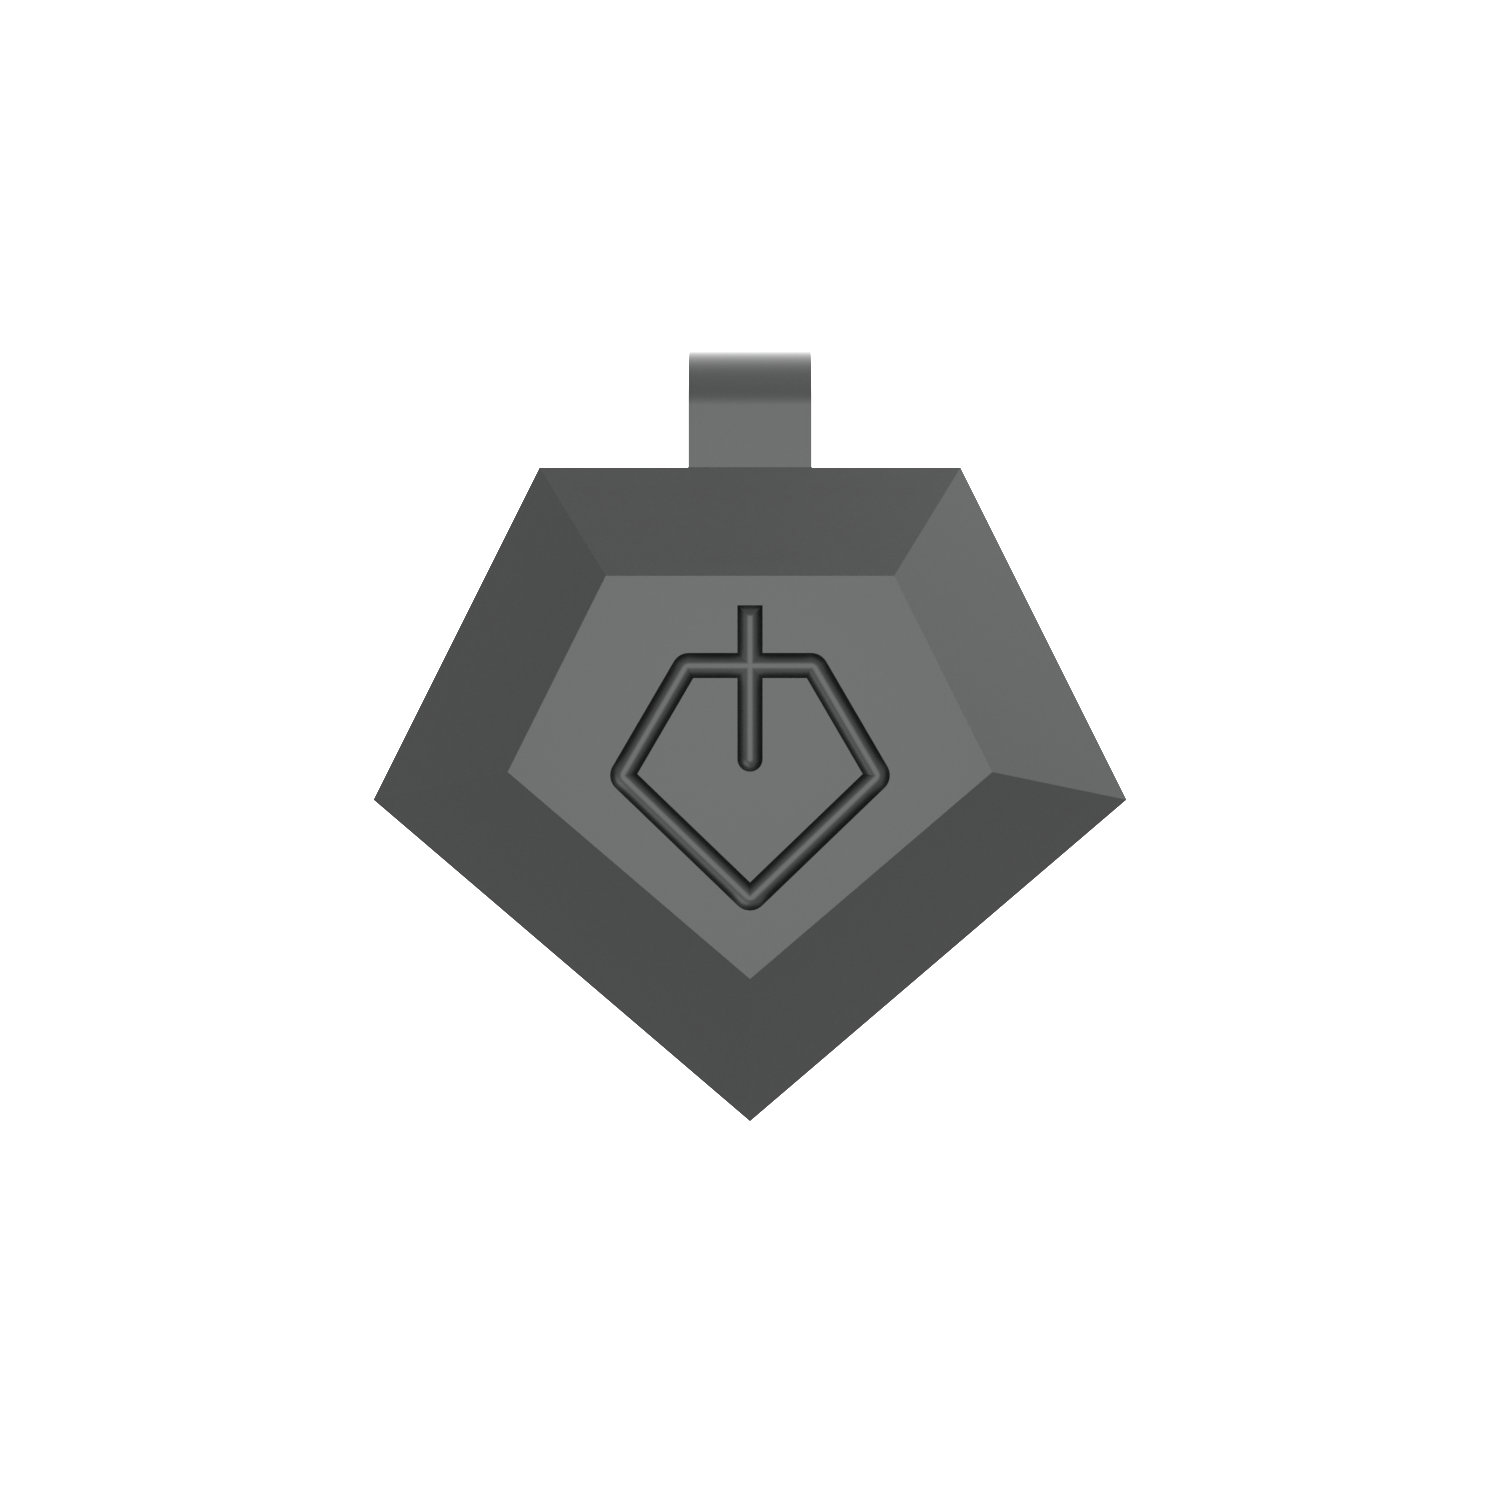
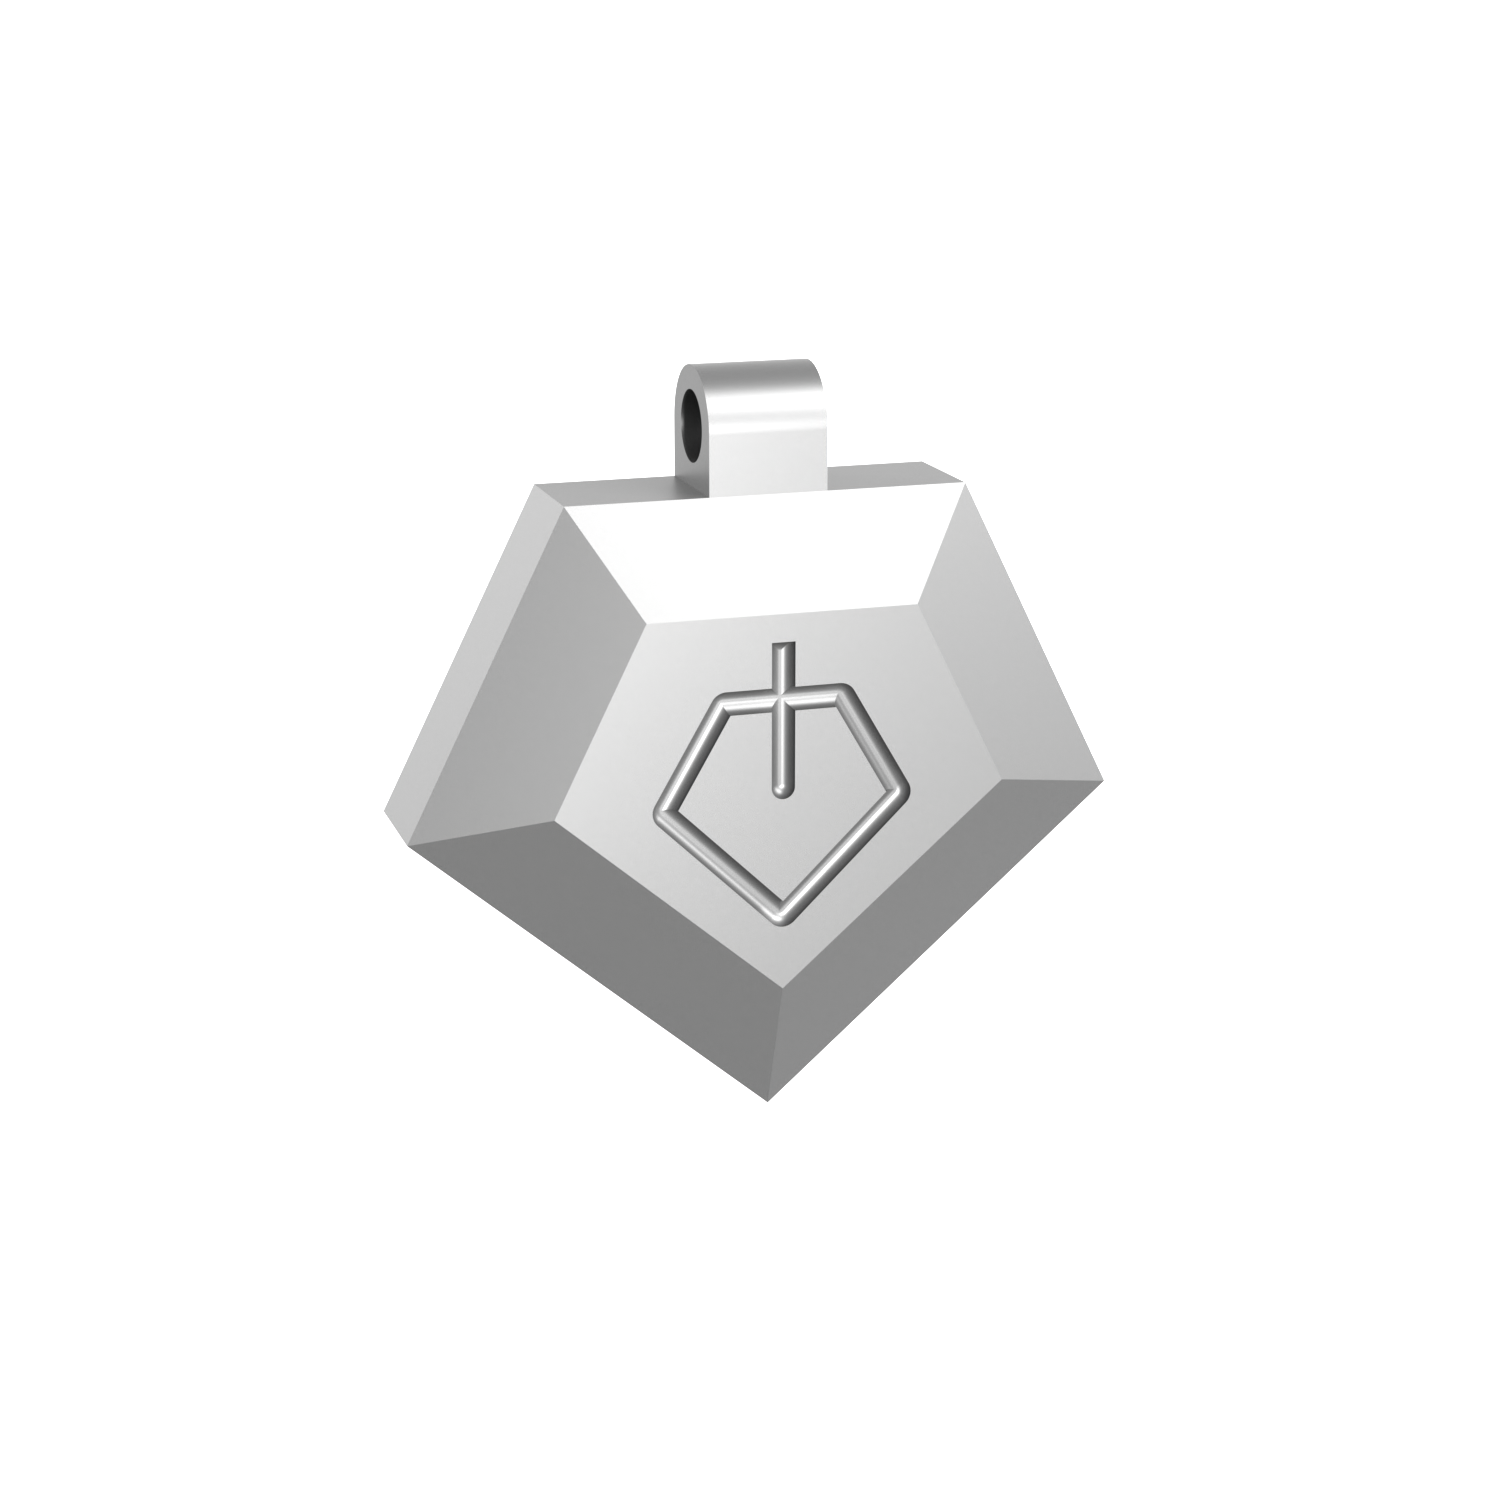
updated pendant render

Changed region(s): [[0.2453, 0.2147, 0.7667, 0.7667]]

diff --git a/app/page.tsx b/app/page.tsx
@@ -268,10 +268,10 @@ export default function Home() {
             ].map((plan, index) => (
               <Card
                 key={index}
-                className={`flex flex-col justify-between bg-white border-gray-200 p-8 relative shadow-md ${plan.popular ? "border-[#FF7A5F]" : ""}`}
+                className={`flex flex-col justify-between bg-white border-gray-200 p-8 relative shadow-md overflow-hidden ${plan.popular ? "border-[#FF7A5F]" : ""}`}
               >
                 {plan.popular && (
-                  <div className="absolute top-0 right-0 bg-[#FF7A5F] text-white text-xs font-bold px-3 py-1 rounded-bl-lg rounded-tr-lg">
+                  <div className="absolute top-0 right-0 bg-[#FF7A5F] text-white text-xs font-bold px-3 py-1 rounded-bl-lg">
                     MOST POPULAR
                   </div>
                 )}

diff --git a/render_pendant.py b/render_pendant.py
@@ -1,0 +1,113 @@
+# render_pendant.py
+#
+# Usage:
+#   blender --background --python render_pendant.py -- \
+#       input.gltf output.png width height
+
+import sys, os, math
+import bpy
+from mathutils import Vector
+
+# 1) parse CLI args (everything after “--”)
+argv = sys.argv[sys.argv.index("--") + 1:]
+in_gltf, out_img, W, H = argv[0], argv[1], int(argv[2]), int(argv[3])
+
+# 2) start with a blank slate
+bpy.ops.wm.read_factory_settings(use_empty=True)
+
+# 3) import your pendant
+bpy.ops.import_scene.gltf(filepath=in_gltf)
+
+# 4) gather all meshes and compute bounding box
+meshes = [o for o in bpy.context.scene.objects if o.type == "MESH"]
+if not meshes:
+    print("Error: no meshes found in the GLTF.")
+    sys.exit(1)
+
+all_verts = []
+for o in meshes:
+    for corner in o.bound_box:
+        all_verts.append(o.matrix_world @ Vector(corner))
+min_v = Vector((min(v.x for v in all_verts),
+                min(v.y for v in all_verts),
+                min(v.z for v in all_verts)))
+max_v = Vector((max(v.x for v in all_verts),
+                max(v.y for v in all_verts),
+                max(v.z for v in all_verts)))
+center = (min_v + max_v) * 0.5
+size   = (max_v - min_v).length
+
+# 5) override materials → Principled BSDF (#111, roughness=0.4)
+for o in meshes:
+    mat = bpy.data.materials.new("PendMat")
+    mat.use_nodes = True
+    bsdf = mat.node_tree.nodes["Principled BSDF"]
+    bsdf.inputs["Base Color"].default_value = (0.066, 0.066, 0.066, 1)
+    bsdf.inputs["Roughness"].default_value   = 0.4
+    o.data.materials.clear()
+    o.data.materials.append(mat)
+
+# 6) world background = pure white
+world = bpy.data.worlds.new("World")
+bpy.context.scene.world = world
+world.use_nodes = True
+bg = world.node_tree.nodes["Background"]
+bg.inputs["Color"].default_value = (1, 1, 1, 1)
+
+# 7) add a shadow‑catcher plane just beneath the pendant
+bpy.ops.mesh.primitive_plane_add(
+    size=size * 4,
+    location=(center.x, center.y, min_v.z - 0.0005)
+)
+ground = bpy.context.active_object
+ground.cycles.is_shadow_catcher = True
+
+# 8) set up camera (reuse if exists)
+cams = [o for o in bpy.context.scene.objects if o.type == "CAMERA"]
+if cams:
+    cam = cams[0]
+else:
+    cam_data = bpy.data.cameras.new("Camera")
+    cam      = bpy.data.objects.new("Camera", cam_data)
+    bpy.context.collection.objects.link(cam)
+    bpy.context.scene.camera = cam
+
+# frame the pendant in view
+fov  = cam.data.angle
+dist = (size * 0.5) / math.tan(fov * 0.5) * 1.2
+cam.location = center + Vector((0, -dist, 0))
+cam.data.clip_start = dist * 0.01
+cam.data.clip_end   = dist * 10
+
+# aim camera at center
+track = cam.constraints.new("TRACK_TO")
+track.target     = bpy.data.objects.new("CamTarget", None)
+bpy.context.collection.objects.link(track.target)
+track.target.location = center
+track.track_axis     = "TRACK_NEGATIVE_Z"
+track.up_axis        = "UP_Y"
+
+# 9) add simple three‑point lighting
+def add_light(name, typ, energy, offs):
+    ld = bpy.data.lights.new(name, typ)
+    ld.energy = energy
+    obj = bpy.data.objects.new(name, ld)
+    bpy.context.collection.objects.link(obj)
+    obj.location = center + Vector(offs)
+
+add_light("KeyLight",  "AREA", 800, ( size, -size,  size))
+add_light("FillLight", "AREA", 300, (-size,  size,  size))
+add_light("RimLight",  "AREA", 500, ( 0,      -size, -size))
+
+# 10) render settings: cycles, resolution, output path
+scene = bpy.context.scene
+scene.render.engine = "CYCLES"
+scene.cycles.device  = "CPU"   # or "GPU" if you have it configured
+scene.render.film_transparent = False
+scene.render.resolution_x    = W
+scene.render.resolution_y    = H
+scene.render.filepath        = os.path.abspath(out_img)
+
+# 11) do it!
+bpy.ops.render.render(write_still=True)
+print("✅ Rendered →", out_img)
